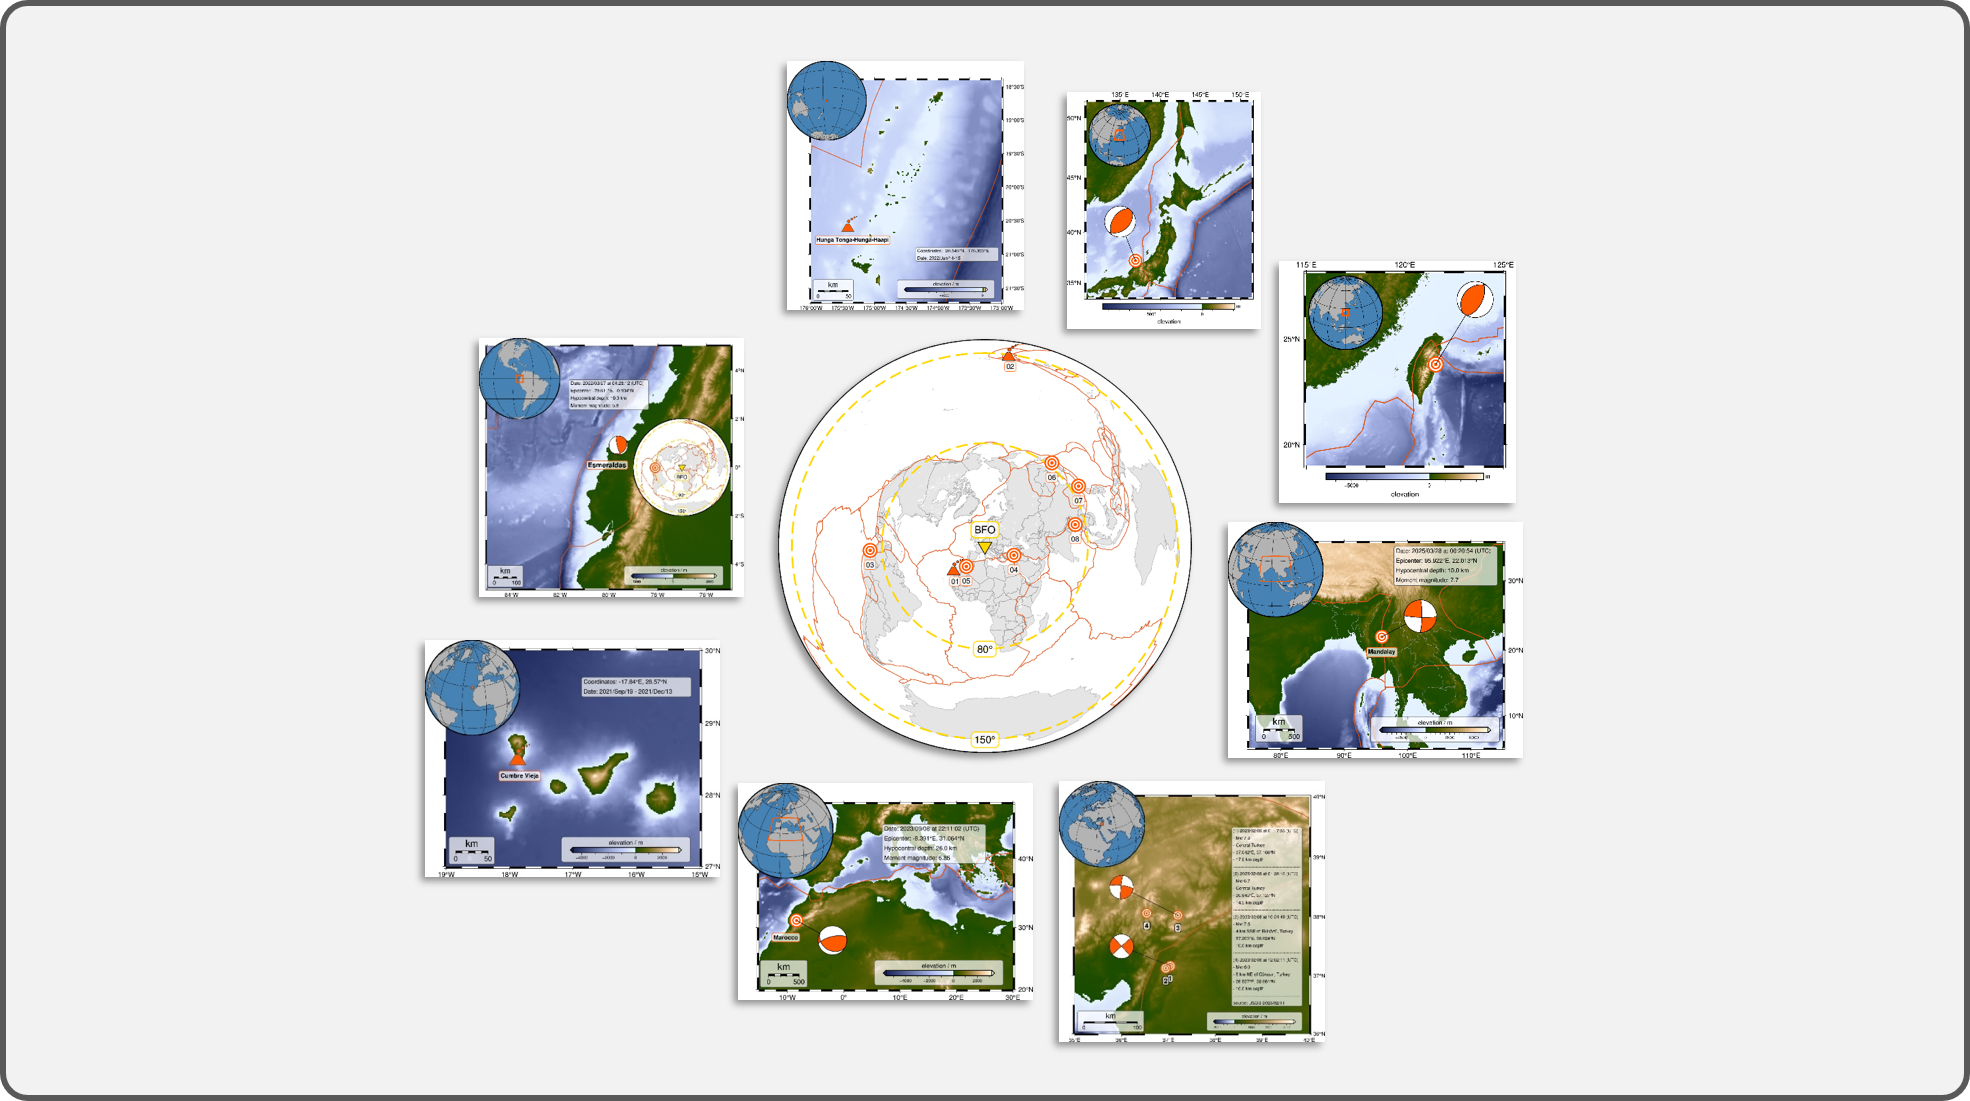
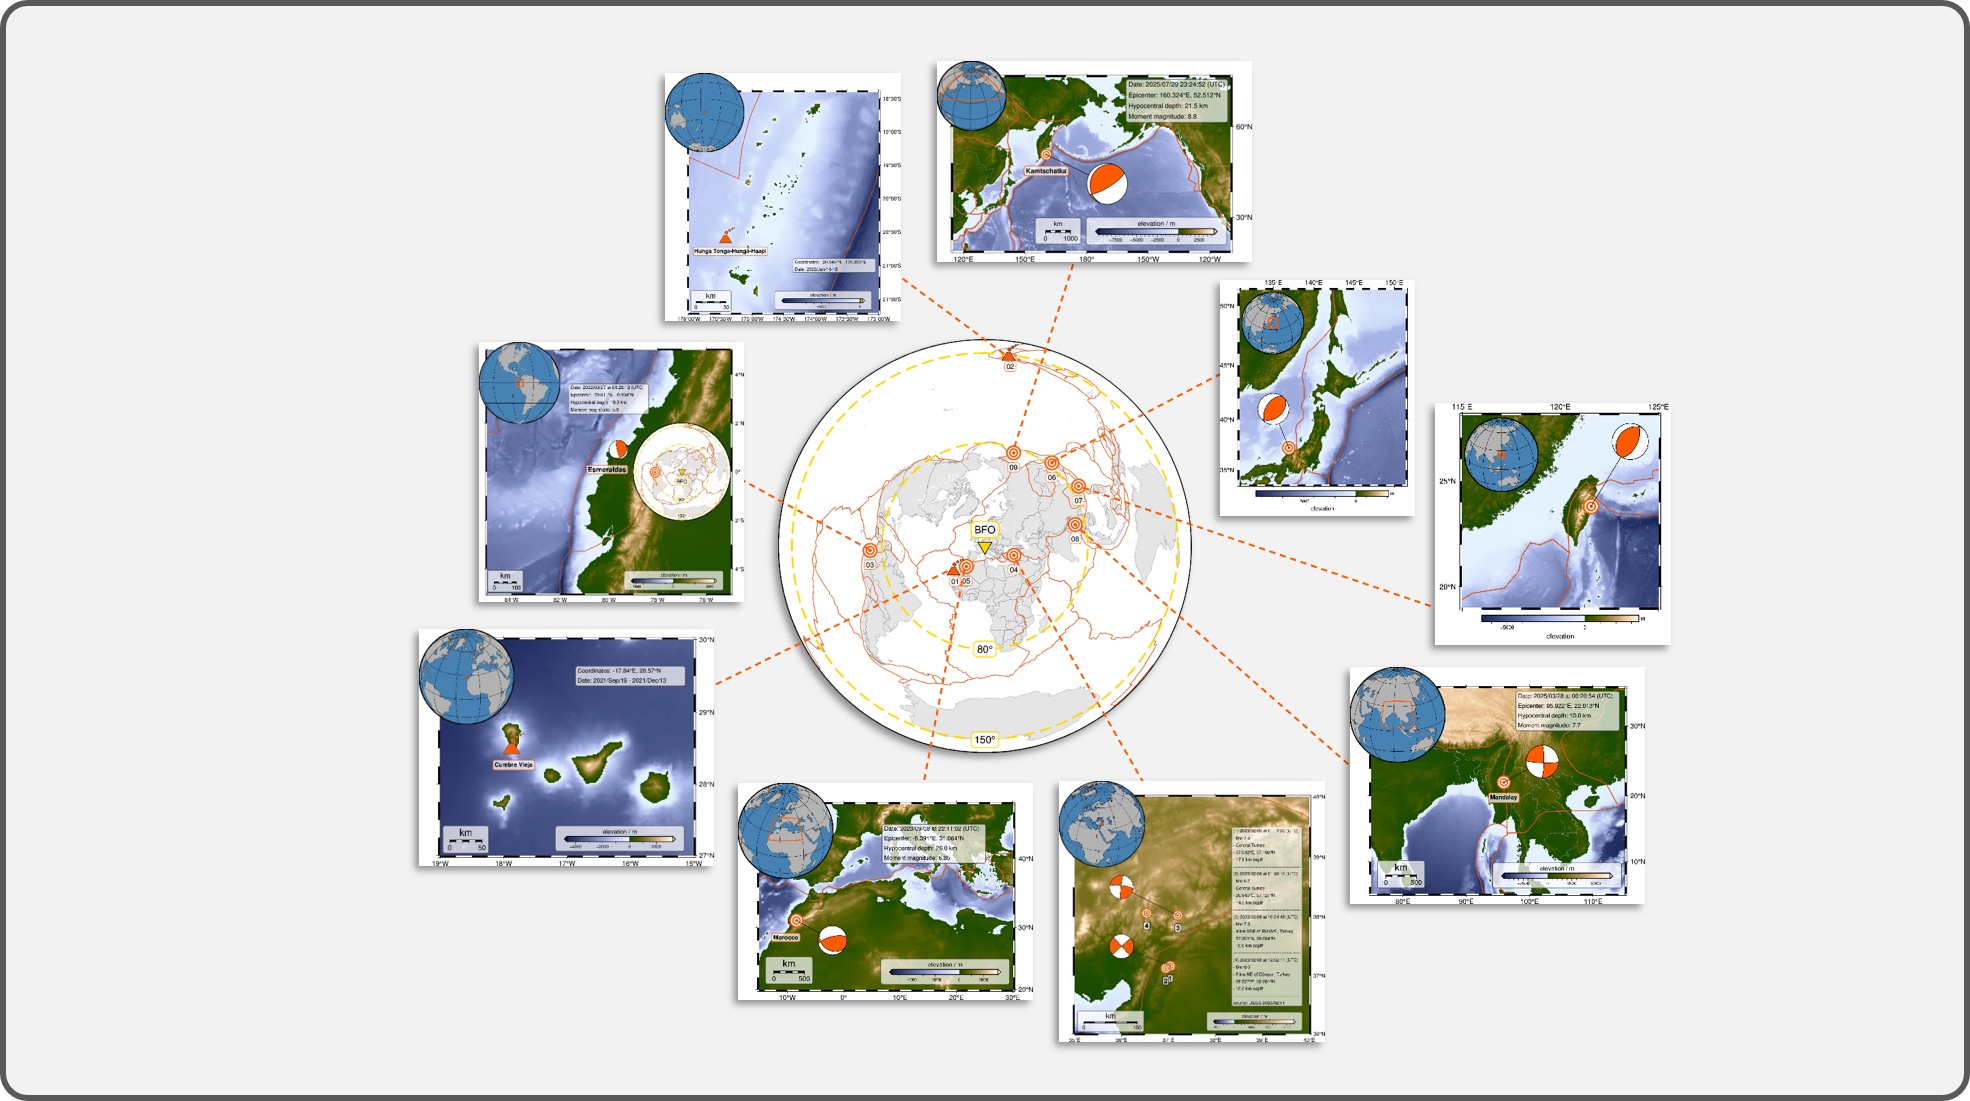
004_earthquakes_eruptions: Add first version for 09_kamtschatka_earthquake (#92)

diff --git a/004_earthquakes_eruptions/09_kamtschatka_earthquake.py b/004_earthquakes_eruptions/09_kamtschatka_earthquake.py
@@ -1,0 +1,196 @@
+# #############################################################################
+# Kamtschatka earthquake on 2025/07/29-30
+# See also: https://earthquake.usgs.gov/earthquakes/eventpage/pt25210002/executive
+#           last accessed: 2025/07/31
+# -----------------------------------------------------------------------------
+# History
+# - Created: 2025/07/30
+# -----------------------------------------------------------------------------
+# Versions
+# - PyGMT v0.16.0 -> https://www.pygmt.org/v0.16.0 | https://www.pygmt.org/
+# - GMT 6.5.0 -> https://www.generic-mapping-tools.org/
+# -----------------------------------------------------------------------------
+# Contact
+# - Author: Yvonne Fröhlich
+# - ORCID: https://orcid.org/0000-0002-8566-0619
+# - GitHub: https://github.com/yvonnefroehlich/gmt-pygmt-plotting
+# #############################################################################
+
+
+import pygmt as gmt
+
+# -----------------------------------------------------------------------------
+# General stuff
+# -----------------------------------------------------------------------------
+# >>> Adjust for your needs <<<
+fig_name = "09_kamtschatka_earthquake"  # Name of output figure
+dpi_png = 360  # Resolution of output PNG
+grid_res = "05m"  # Resolution of elevation grid
+grid_reg = "g"  # Registration of elevation grid
+
+# -----------------------------------------------------------------------------
+# Paths
+path_in = "01_in_data"
+path_out = "02_out_figs"
+
+# -----------------------------------------------------------------------------
+# File name for plate boundaries after Bird 2003
+file_pb = "plate_boundaries_Bird_2003.txt"
+
+# -----------------------------------------------------------------------------
+# Define region and projections
+# Zoom around Kamtschatka
+lon_min = 150  # degrees East
+lon_max = 180
+lat_min = 45   # degrees North
+lat_max = 60
+# With east coast of US
+lon_min = 115  # degrees East
+lon_max = 250
+lat_min = 15   # degrees North
+lat_max = 70
+region = [lon_min, lon_max, lat_min, lat_max]
+center_str = f"{(lon_max + lon_min) / 2}/{(lat_max + lat_min) / 2}"
+
+projection_main = "M12c"  # Mercator
+projection_ortho = f"G{center_str}/?"
+
+# -----------------------------------------------------------------------------
+# Coordinates of epicenter
+lon_eq = 160.324  # degrees East
+lat_eq = 52.512  # degrees North
+
+# -----------------------------------------------------------------------------
+# Colors
+color_water = "steelblue"
+color_land = "gray70"
+color_sl = "gray30"
+color_pb = "216.750/82.875/24.990"  # plate boundaries # -> darkorange
+color_nb = "gray70"  # national boundaries
+color_hl = "255/90/0"  # higlight -> orange
+
+# -----------------------------------------------------------------------------
+# Stuff for scale, legends, colorbars, and insets
+basemap_scale = f"JLB+jLB+w1000+c{center_str}+f+lkm+at+o4c/0.7c"
+
+pos_study_inset = "jTL+w3c+o-0.7c"
+
+pos_cb_grid = "JRB+jRB+w5c/0.25c+h+ml+o0.7c+e"
+frame_cb_grid = "xa2500f500+lelevation / m"
+
+box_standard = "+gwhite@30+p0.5p,gray30+r0.1c"
+
+
+# %%
+# -----------------------------------------------------------------------------
+# Make geographic map
+# -----------------------------------------------------------------------------
+
+# Create new Figure() instance
+fig = gmt.Figure()
+fig.basemap(region=region, projection=projection_main, frame=["wSnE", "af"])
+
+# -----------------------------------------------------------------------------
+# Download and plot elevation grid
+fig.grdimage(grid=f"@earth_relief_{grid_res}_{grid_reg}", region=region, cmap="oleron")
+
+# -----------------------------------------------------------------------------
+# Plot plate boundaries after Bird 2003
+fig.plot(data=f"{path_in}/{file_pb}", pen=f"1p,{color_pb}")
+
+# -----------------------------------------------------------------------------
+# Plot national boundaries
+fig.coast(borders=f"1/0.1p,{color_nb}")
+
+# -----------------------------------------------------------------------------
+# Plot earthquake
+
+# Epicenter
+fig.plot(
+    x=lon_eq,
+    y=lat_eq,
+    style=f"k{path_in}/earthquake.def/1c",
+    fill=color_hl,
+    pen=color_hl,
+)
+
+# Beachball
+pen_epi = "0.5p,black"
+fig.meca(
+    spec=f"{path_in}/meca_kamtschatka.txt",
+    convention="aki",
+    scale="1c",
+    compressionfill=color_hl,  # fill color of compressive quadrants
+    offset=pen_epi,
+    outline=pen_epi,
+)
+
+# Label
+fig.text(
+    x=lon_eq,
+    y=lat_eq,
+    text="Kamtschatka",
+    font="8p,Helvetica-Bold,black",
+    offset="0c/-0.7c",
+    fill="white@30",
+    pen=f"0.8p,{color_hl}",
+    clearance="0.1c/0.1c+tO",
+)
+
+# Info text
+# Adjust position in txt file
+fig.text(
+    textfiles=f"{path_in}/info_kamtschatka.txt",
+    M=True,  # paragraph mode # read from file
+    font="8p,black",
+    fill="white@30",
+    clearance="0.1c/0.1c+tO",
+    pen="0.5p,gray30",
+)
+
+# -----------------------------------------------------------------------------
+# Add colorbar for elevation
+fig.colorbar(position=pos_cb_grid, frame=frame_cb_grid, box=box_standard)
+
+# -----------------------------------------------------------------------------
+# Add length scale
+with gmt.config(FONT="8p"):
+    fig.basemap(map_scale=basemap_scale, box=box_standard)
+
+# -----------------------------------------------------------------------------
+# Inset map of study region
+
+# Use with statement and context manager
+with fig.inset(position=pos_study_inset):
+    # >>> use ? <<<
+
+    # Azimuthal orthographic projection
+    # glon0/lat0[/horizon]/scale or Glon0/lat0[/horizon]/width
+    #  - lon0/lat0: set projection center
+    #  - horizon: maximum distance from projection center (in degrees, <= 90, default 90)
+    #  - scale or width: set figure size
+
+    fig.coast(
+        region="g",  # global
+        projection=projection_ortho,
+        area_thresh="50000",
+        resolution="c",
+        shorelines=color_sl,
+        land=color_land,
+        water=color_water,
+        frame="g",
+    )
+
+    # Plot rectangle at study area
+    fig.plot(
+        data=[[lon_min, lat_min, lon_max, lat_max]],
+        style="r+s",
+        pen=f"1p,{color_hl}",
+    )
+
+# -----------------------------------------------------------------------------
+# Show and save figure
+fig.show()
+# for ext in ["png"]:  # , "pdf", "eps"]:
+#     fig.savefig(fname=f"{path_out}/{fig_name}.{ext}", dpi=dpi_png)
+print(fig_name)

diff --git a/004_earthquakes_eruptions/00_overview_events_BFO.py b/004_earthquakes_eruptions/00_overview_events_BFO.py
@@ -52,6 +52,7 @@ df_events = pd.DataFrame(
             "earthquake",
             "earthquake",
             "earthquake",
+            "earthquake",
         ],
         "location": [
             "La Palma",
@@ -62,6 +63,7 @@ df_events = pd.DataFrame(
             "Japan",
             "Taiwan",
             "Myanmar",
+            "Kamtschatka",
         ],
         "date": [
             "2021/09/19-2021/12/13",
@@ -72,10 +74,11 @@ df_events = pd.DataFrame(
             "2024/01/01",
             "2024/04/02",
             "2025/03/28",
+            "2025/07/30",
         ],
-        "lon": [-17.84, -175.393, -79.611, 37.042, -8.391, 136.91, 121.562, 95.92],
-        "lat": [28.57, -20.545, -0.904, 37.166, 31.064, 37.23, 23.819, 22.01],
-        "event_id": ["01", "02", "03", "04", "05", "06", "07", "08"],
+        "lon": [-17.84, -175.393, -79.611, 37.042, -8.391, 136.91, 121.562, 95.92, 160.324],
+        "lat": [28.57, -20.545, -0.904, 37.166, 31.064, 37.23, 23.819, 22.01, 52.512],
+        "event_id": ["01", "02", "03", "04", "05", "06", "07", "08", "09"],
     }
 )
 

diff --git a/004_earthquakes_eruptions/README.md b/004_earthquakes_eruptions/README.md
@@ -2,19 +2,20 @@
 
 ## Content
 
-_Recommended versions_: PyGMT v0.11.0-v0.14.2, GMT 6.4.0-6.5.0
+_Recommended versions_: PyGMT v0.11.0-v0.16.0, GMT 6.4.0-6.5.0
 
 
 | Script | Location | Date and time | Map |
 | --- | --- | --- | --- |
-| [00_overview_events_BFO.py](https://github.com/yvonnefroehlich/gmt-pygmt-plotting/blob/main/004_earthquakes_eruptions/00_overview_events_BFO.py)          | global          | 2021 - present                     | <img src="https://github.com/yvonnefroehlich/gmt-pygmt-plotting/raw/main/004_earthquakes_eruptions/02_out_figs/00_overview_events_BFO.png" width="60"> |
-| [01_la_palma_eruption.py](https://github.com/yvonnefroehlich/gmt-pygmt-plotting/blob/main/004_earthquakes_eruptions/01_la_palma_eruption.py)              | La Palma        | 2021/09/19 - 2021/12/13            | <img src="https://github.com/yvonnefroehlich/gmt-pygmt-plotting/raw/main/004_earthquakes_eruptions/02_out_figs/01_la_palma_eruption.png" width="60"> |
-| [02_tonga_eruption.py](https://github.com/yvonnefroehlich/gmt-pygmt-plotting/blob/main/004_earthquakes_eruptions/02_tonga_eruption.py)                    | Tonga           | 2022/01/14-15                      | <img src="https://github.com/yvonnefroehlich/gmt-pygmt-plotting/raw/main/004_earthquakes_eruptions/02_out_figs/02_tonga_eruption.png" width="60"> |
-| [03_esmeraldas_earthquake.py](https://github.com/yvonnefroehlich/gmt-pygmt-plotting/blob/main/004_earthquakes_eruptions/03_esmeraldas_earthquake.py)      | Esmeraldas      | 2022/03/27 at 04:28 (UTC)          | <img src="https://github.com/yvonnefroehlich/gmt-pygmt-plotting/raw/main/004_earthquakes_eruptions/02_out_figs/03_esmeraldas_earthquake.png" width="60"> |
-| [04_turkey_syria_earthquake.py](https://github.com/yvonnefroehlich/gmt-pygmt-plotting/blob/main/004_earthquakes_eruptions/04_turkey_syria_earthquake.py)  | Turkey, Syria   | 2023/02/06 at 01:17, 10:24 (UTC)   | <img src="https://github.com/yvonnefroehlich/gmt-pygmt-plotting/raw/main/004_earthquakes_eruptions/02_out_figs/04_turkey_syria_earthquake.png" width="60"> |
-| [05_morocco_earthquake.py](https://github.com/yvonnefroehlich/gmt-pygmt-plotting/blob/main/004_earthquakes_eruptions/05_morocoo_earthquake.py)            | Morocco         | 2023/09/08 at 22:11 (UTC)          | <img src="https://github.com/yvonnefroehlich/gmt-pygmt-plotting/raw/main/004_earthquakes_eruptions/02_out_figs/05_morocco_earthquake.png" width="60"> |
-| [06_japan_earthquake_BFO.py](https://github.com/yvonnefroehlich/gmt-pygmt-plotting/blob/main/004_earthquakes_eruptions/06_japan_earthquake_BFO.py)        | Japan           | 2024/01/01 at 07:10 (UTC)          | <img src="https://github.com/yvonnefroehlich/gmt-pygmt-plotting/raw/main/004_earthquakes_eruptions/02_out_figs/06_japan_earthquake_BFO.png" width="60"> |
-| [07_taiwan_earthquake_BFO.py](https://github.com/yvonnefroehlich/gmt-pygmt-plotting/blob/main/004_earthquakes_eruptions/07_taiwan_earthquake_BFO.py)      | Taiwan          | 2024/04/02 at 23:58 (UTC)          | <img src="https://github.com/yvonnefroehlich/gmt-pygmt-plotting/raw/main/004_earthquakes_eruptions/02_out_figs/07_taiwan_earthquake_BFO.png" width="60"> |
-| [08_myanmar_earthquake.py](https://github.com/yvonnefroehlich/gmt-pygmt-plotting/blob/main/004_earthquakes_eruptions/08_myanmar_earthquake.py)            | Myanmar         | 2025/03/28 at 06:20:54 (UTC)       | <img src="https://github.com/yvonnefroehlich/gmt-pygmt-plotting/raw/main/004_earthquakes_eruptions/02_out_figs/08_myanmar_earthquake.png" width="60"> |
+| [00_overview_events_BFO.py](https://github.com/yvonnefroehlich/gmt-pygmt-plotting/blob/main/004_earthquakes_eruptions/00_overview_events_BFO.py)          | global                | 2021 - present                             | <img src="https://github.com/yvonnefroehlich/gmt-pygmt-plotting/raw/main/004_earthquakes_eruptions/02_out_figs/00_overview_events_BFO.png" width="60">     |
+| [01_la_palma_eruption.py](https://github.com/yvonnefroehlich/gmt-pygmt-plotting/blob/main/004_earthquakes_eruptions/01_la_palma_eruption.py)              | La Palma              | 2021/09/19 - 2021/12/13                    | <img src="https://github.com/yvonnefroehlich/gmt-pygmt-plotting/raw/main/004_earthquakes_eruptions/02_out_figs/01_la_palma_eruption.png" width="60">       |
+| [02_tonga_eruption.py](https://github.com/yvonnefroehlich/gmt-pygmt-plotting/blob/main/004_earthquakes_eruptions/02_tonga_eruption.py)                    | Tonga                 | 2022/01/14-15                              | <img src="https://github.com/yvonnefroehlich/gmt-pygmt-plotting/raw/main/004_earthquakes_eruptions/02_out_figs/02_tonga_eruption.png" width="60">          |
+| [03_esmeraldas_earthquake.py](https://github.com/yvonnefroehlich/gmt-pygmt-plotting/blob/main/004_earthquakes_eruptions/03_esmeraldas_earthquake.py)      | Esmeraldas            | 2022/03/27 at 04:28 (UTC)                  | <img src="https://github.com/yvonnefroehlich/gmt-pygmt-plotting/raw/main/004_earthquakes_eruptions/02_out_figs/03_esmeraldas_earthquake.png" width="60">   |
+| [04_turkey_syria_earthquake.py](https://github.com/yvonnefroehlich/gmt-pygmt-plotting/blob/main/004_earthquakes_eruptions/04_turkey_syria_earthquake.py)  | Turkey, Syria         | 2023/02/06 at 01:17, 10:24 (UTC)           | <img src="https://github.com/yvonnefroehlich/gmt-pygmt-plotting/raw/main/004_earthquakes_eruptions/02_out_figs/04_turkey_syria_earthquake.png" width="60"> |
+| [05_morocco_earthquake.py](https://github.com/yvonnefroehlich/gmt-pygmt-plotting/blob/main/004_earthquakes_eruptions/05_morocoo_earthquake.py)            | Morocco               | 2023/09/08 at 22:11 (UTC)                  | <img src="https://github.com/yvonnefroehlich/gmt-pygmt-plotting/raw/main/004_earthquakes_eruptions/02_out_figs/05_morocco_earthquake.png" width="60">      |
+| [06_japan_earthquake_BFO.py](https://github.com/yvonnefroehlich/gmt-pygmt-plotting/blob/main/004_earthquakes_eruptions/06_japan_earthquake_BFO.py)        | Japan                 | 2024/01/01 at 07:10 (UTC)                  | <img src="https://github.com/yvonnefroehlich/gmt-pygmt-plotting/raw/main/004_earthquakes_eruptions/02_out_figs/06_japan_earthquake_BFO.png" width="60">    |
+| [07_taiwan_earthquake_BFO.py](https://github.com/yvonnefroehlich/gmt-pygmt-plotting/blob/main/004_earthquakes_eruptions/07_taiwan_earthquake_BFO.py)      | Taiwan                | 2024/04/02 at 23:58 (UTC)                  | <img src="https://github.com/yvonnefroehlich/gmt-pygmt-plotting/raw/main/004_earthquakes_eruptions/02_out_figs/07_taiwan_earthquake_BFO.png" width="60">   |
+| [08_myanmar_earthquake.py](https://github.com/yvonnefroehlich/gmt-pygmt-plotting/blob/main/004_earthquakes_eruptions/08_myanmar_earthquake.py)            | Myanmar               | 2025/03/28 at 06:20:54 (UTC)               | <img src="https://github.com/yvonnefroehlich/gmt-pygmt-plotting/raw/main/004_earthquakes_eruptions/02_out_figs/08_myanmar_earthquake.png" width="60">      |
+| [09_kamtschatka_earthquake.py](https://github.com/yvonnefroehlich/gmt-pygmt-plotting/blob/main/004_earthquakes_eruptions/09_kamtschatka_earthquake.py)    | Kamtschatka           | 2025/07/29-30 at 23:24:50 (UTC)            | <img src="https://github.com/yvonnefroehlich/gmt-pygmt-plotting/raw/main/004_earthquakes_eruptions/02_out_figs/09_kamtschatka_earthquake.png" width="60">  |
 
 ![](https://github.com/yvonnefroehlich/gmt-pygmt-plotting/raw/main/_images/github_maps_readme_004events.png)
